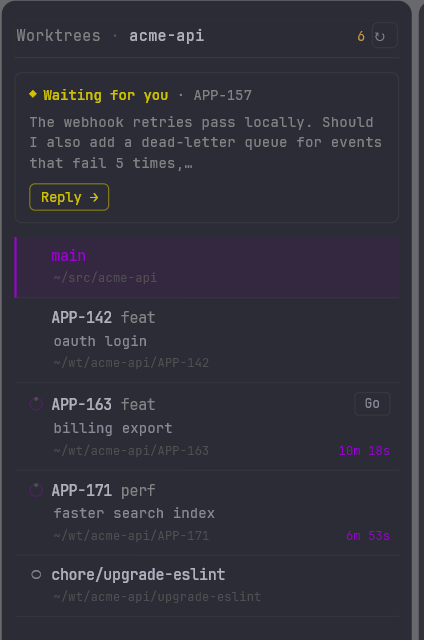
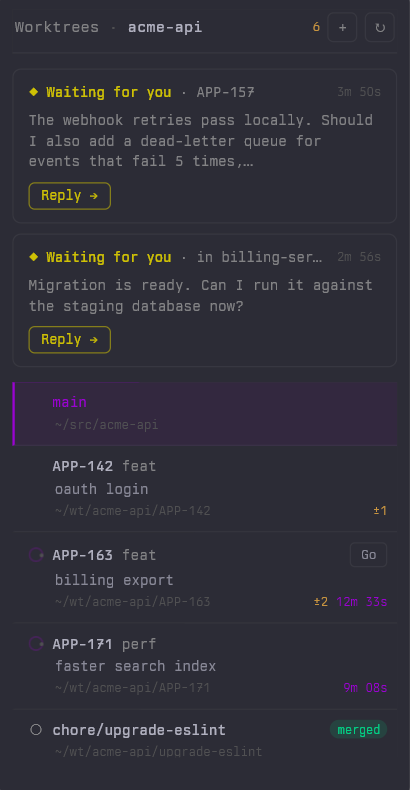
docs: refresh screenshots with cross-repo waiting card and status segment

diff --git a/README.md b/README.md
@@ -2,7 +2,7 @@
 
 A [Tern](https://stencil.so/tern) plugin: a panel pinned to the edge of every tab with the git worktrees of the focused repository and the state of the omp agents running in each one.
 
-![Tern with the panel on the left: an agent waiting for an answer at the top, the main checkout highlighted, two agents working and one idle](docs/hero.png)
+![Tern with the panel on the left: two agents waiting for an answer at the top, one in another repository, the main checkout highlighted, two agents working, one idle on a merged worktree, and "2 waiting" in the status line](docs/hero.png)
 
 ## Use
 
